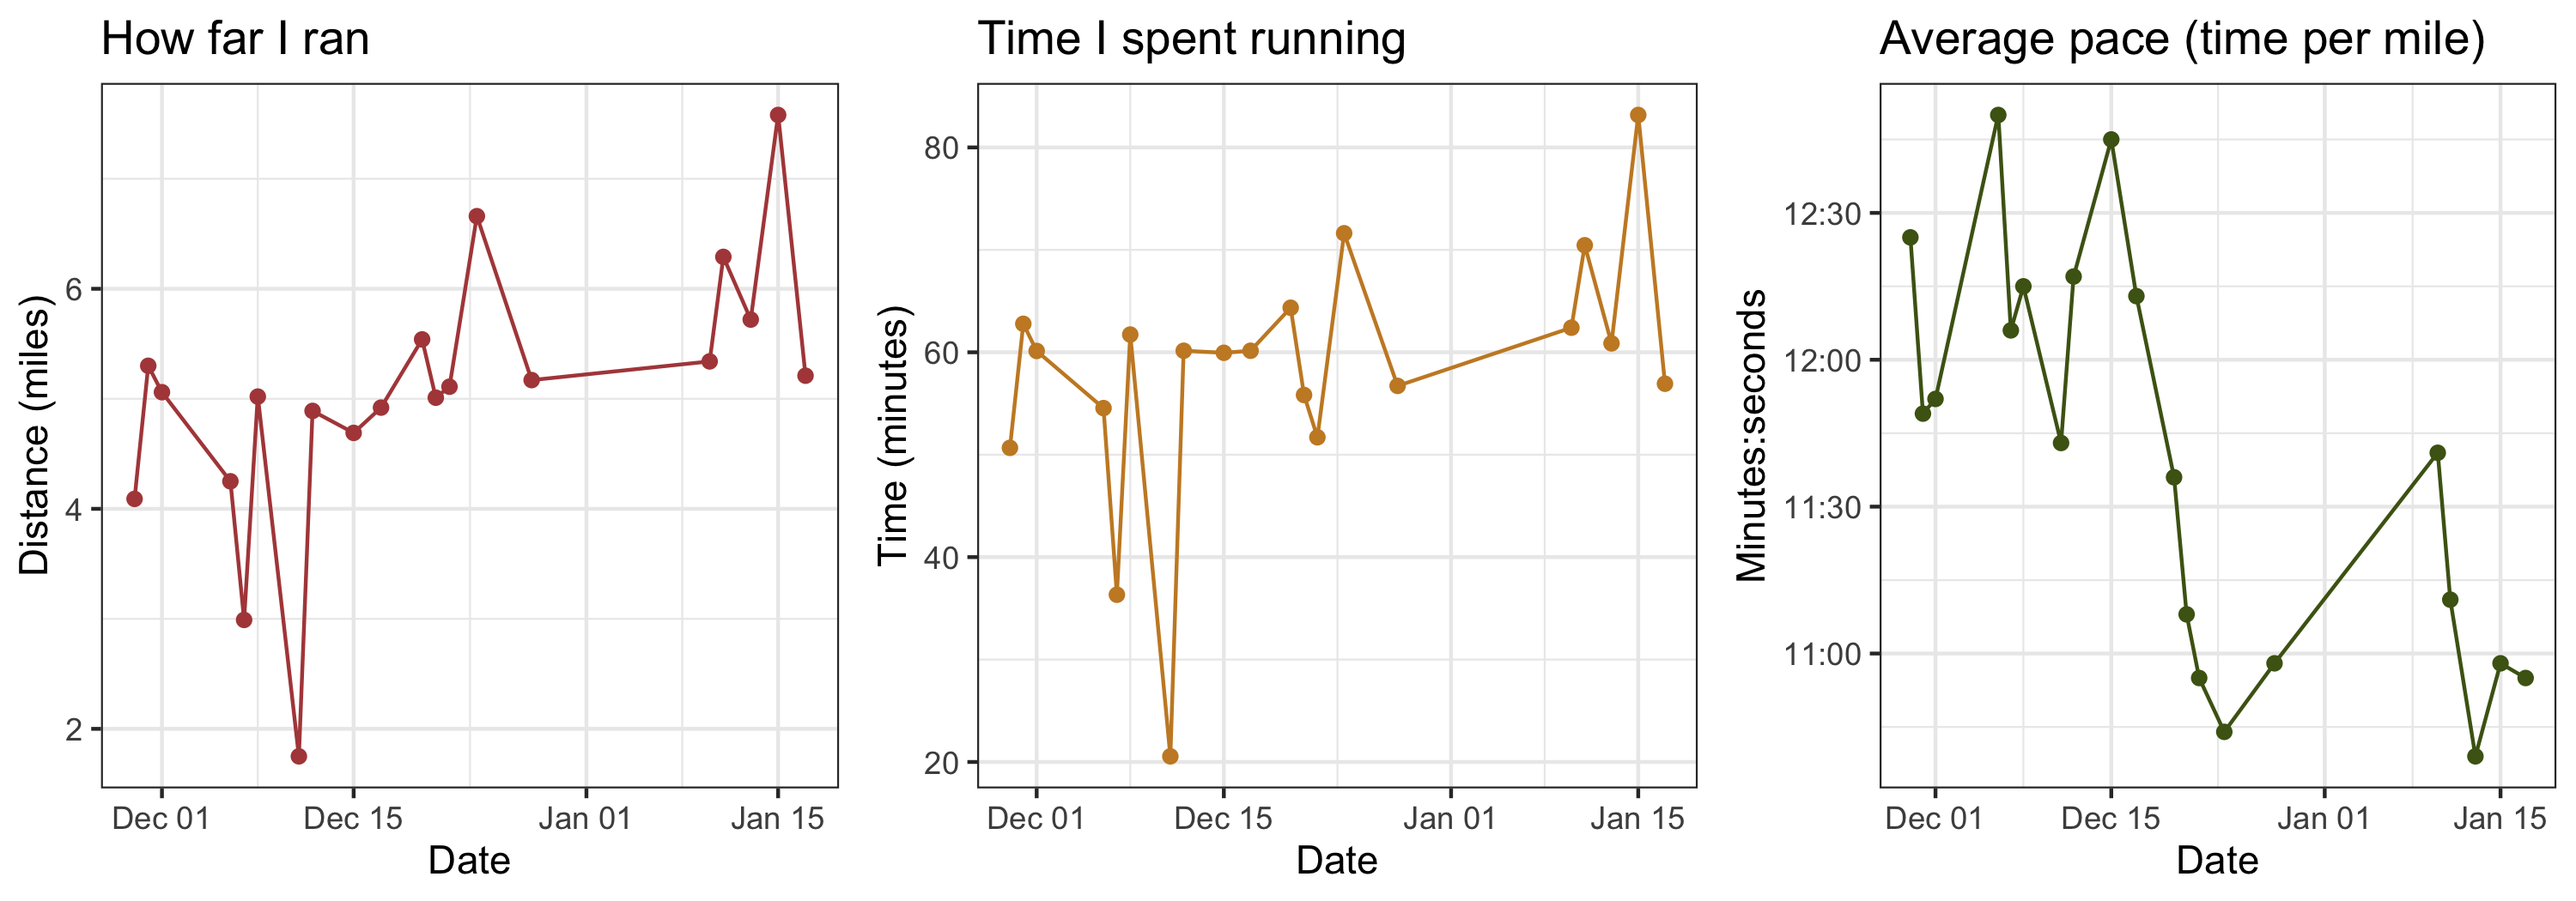
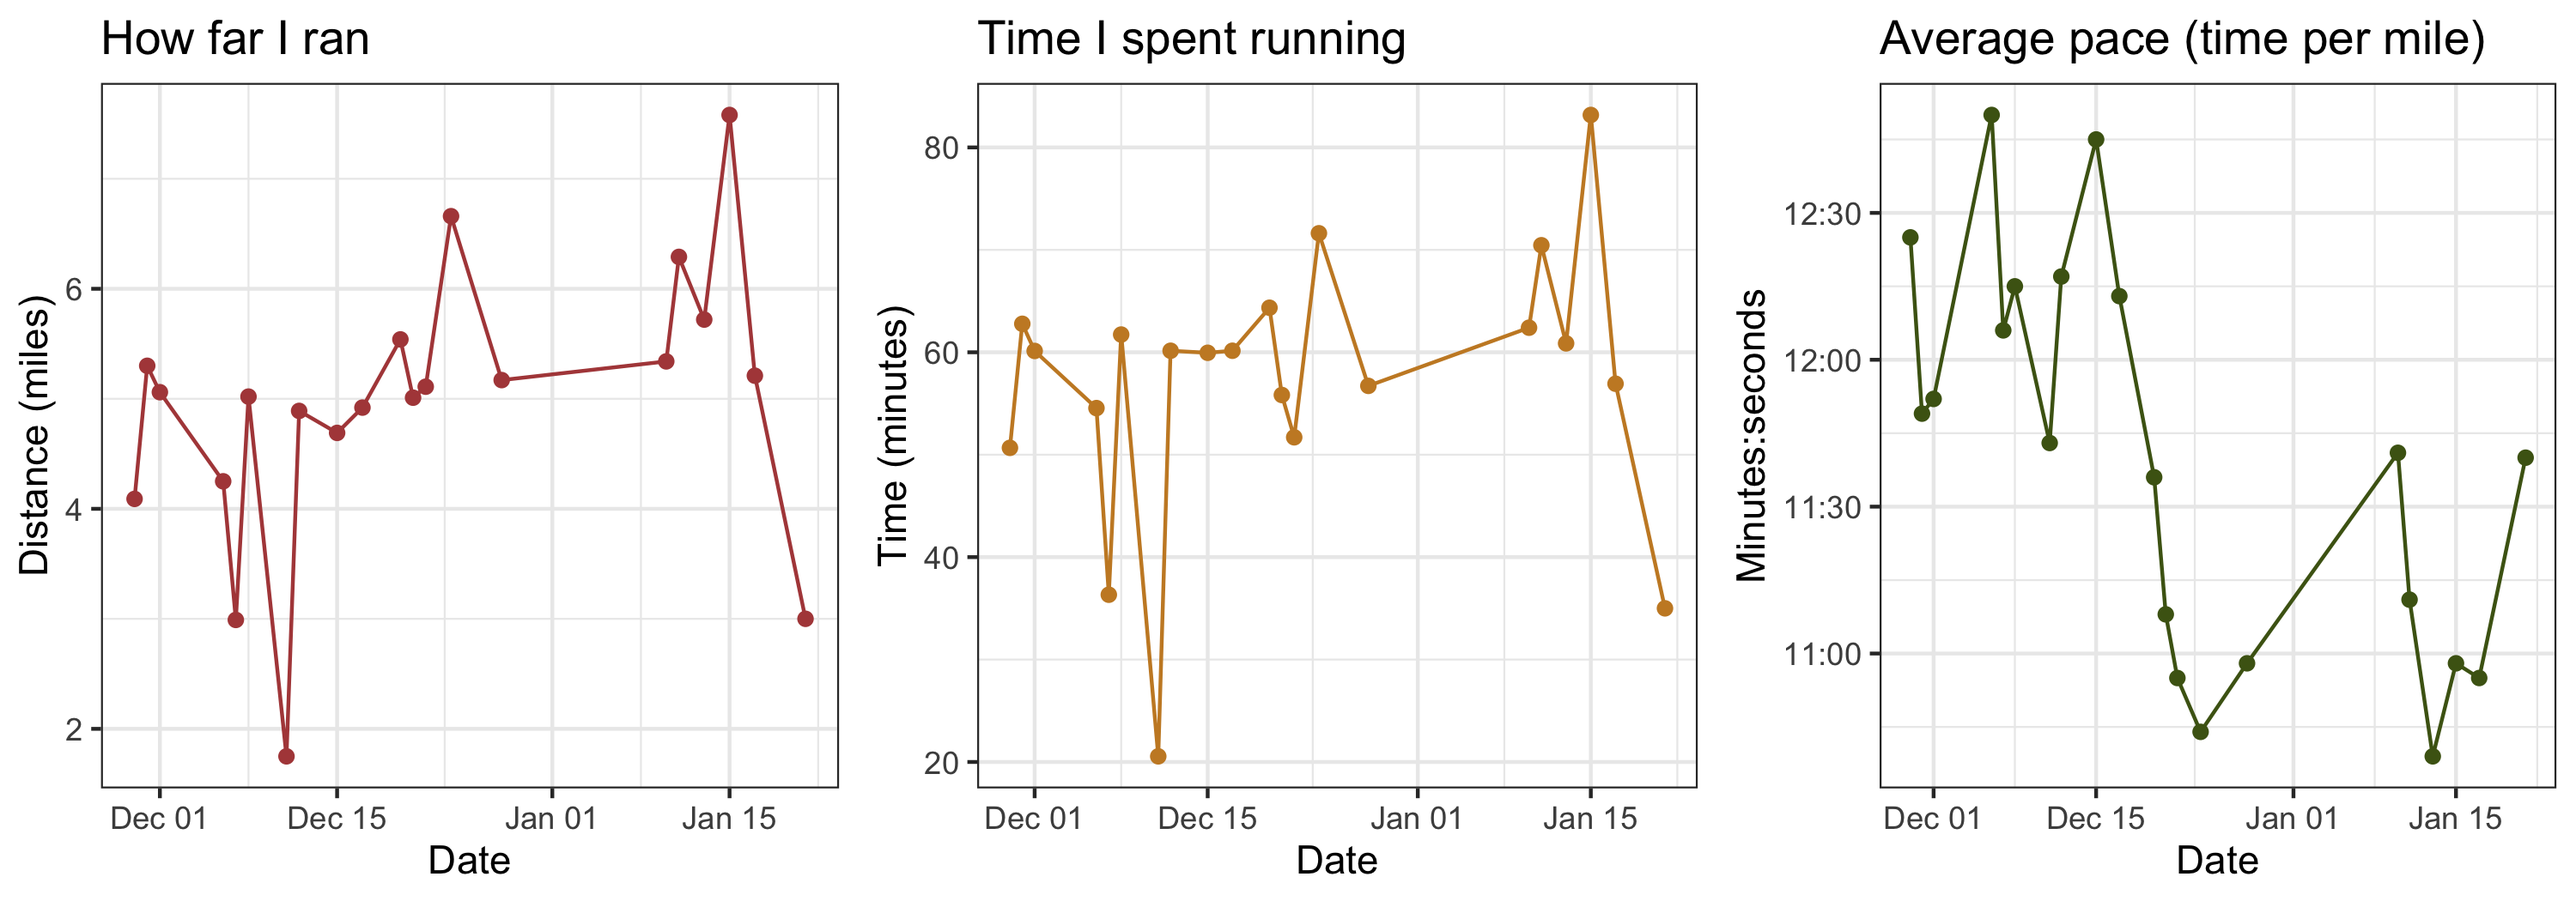
1/21/22

diff --git a/README.md b/README.md
@@ -27,4 +27,4 @@ Total miles since 11/29/21:
 sum(runningData$Miles)
 ```
 
-    ## [1] 100.59
+    ## [1] 103.59
